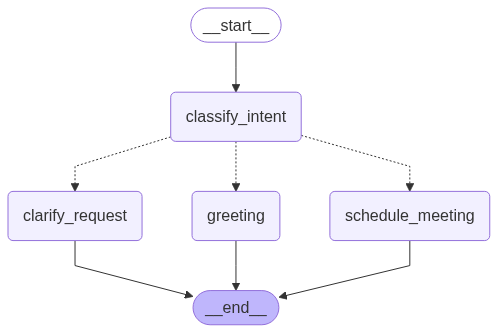
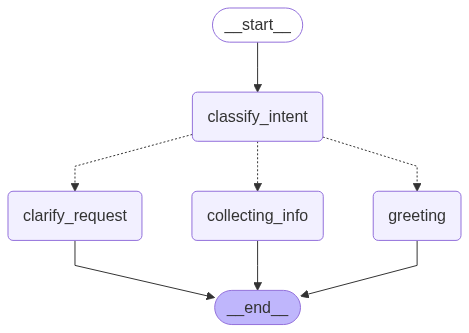
chore: rename schedule_meeting node to collecting_info node

diff --git a/tests/run_node_with_graph.py b/tests/run_node_with_graph.py
@@ -9,7 +9,7 @@ from meetingmuse.models.state import MeetingMuseBotState
 from meetingmuse.nodes.clarify_request_node import ClarifyRequestNode
 from meetingmuse.nodes.classify_intent_node import ClassifyIntentNode
 from meetingmuse.nodes.greeting_node import GreetingNode
-from meetingmuse.nodes.schedule_meeting_node import ScheduleMeetingNode
+from meetingmuse.nodes.schedule_meeting_node import CollectingInfoNode
 from meetingmuse.services.intent_classifier import IntentClassifier
 from meetingmuse.services.routing_service import ConversationRouter
 from meetingmuse.utils.logger import Logger
@@ -21,7 +21,7 @@ model = HuggingFaceModel("meta-llama/Meta-Llama-3-8B-Instruct")
 intent_classifier = IntentClassifier(model)
 classify_intent_node = ClassifyIntentNode(intent_classifier)
 greeting_node = GreetingNode(model)
-schedule_meeting_node = ScheduleMeetingNode(model, logger)
+schedule_meeting_node = CollectingInfoNode(model, logger)
 clarify_request_node = ClarifyRequestNode(model)
 conversation_router = ConversationRouter(logger)
 
@@ -88,7 +88,7 @@ def test_single_node(node_name: NodeName, user_message: str):
         graph = create_intent_test_graph()
     elif node_name == NodeName.GREETING:
         graph = create_greeting_test_graph()
-    elif node_name == NodeName.SCHEDULE_MEETING:
+    elif node_name == NodeName.COLLECTING_INFO:
         graph = create_schedule_meeting_test_graph()
     elif node_name == NodeName.CLARIFY_REQUEST:
         graph = create_clarify_request_test_graph()    
@@ -106,5 +106,5 @@ if __name__ == "__main__":
     draw_graph()
     # use this method, change NodeName value to test different node.
     # NOTE: make sure that the new node is added and helper method is     
-    test_single_node(NodeName.SCHEDULE_MEETING, "I want to schedule a meeting with John Doe on 2025-08-01 at 10:00 AM for 1 hour")
+    test_single_node(NodeName.COLLECTING_INFO, "I want to schedule a meeting with John Doe on 2025-08-01 at 10:00 AM for 1 hour")
 

diff --git a/tests/meetingmuse/nodes/test_classify_intent_node.py b/tests/meetingmuse/nodes/test_classify_intent_node.py
@@ -20,24 +20,6 @@ class TestClassifyIntentNode:
         """Create a ClassifyIntentNode instance with mocked classifier."""
         return ClassifyIntentNode(mock_intent_classifier)
 
-    @pytest.mark.parametrize("user_intent,expected_step", [
-        (UserIntent.SCHEDULE_MEETING, ConversationStep.COLLECTING_INFO),
-        (UserIntent.CHECK_AVAILABILITY, ConversationStep.PROCESSING_REQUEST),
-        (UserIntent.CANCEL_MEETING, ConversationStep.PROCESSING_REQUEST),
-        (UserIntent.RESCHEDULE_MEETING, ConversationStep.PROCESSING_REQUEST),
-        (UserIntent.UNKNOWN, ConversationStep.CLARIFYING_REQUEST),
-        (UserIntent.GENERAL_CHAT, ConversationStep.GREETING),
-    ])
-    def test_get_current_step_maps_intents_to_correct_conversation_steps(
-        self, node, user_intent, expected_step
-    ):
-        """
-        Test that user intents are correctly mapped to conversation steps.
-        
-        This is critical business logic that determines the conversation flow.
-        """
-        result = node.get_current_step(user_intent)
-        assert result == expected_step
 
     def test_call_updates_state_with_classified_intent_and_step(self, node, mock_intent_classifier):
         """
@@ -64,7 +46,6 @@ class TestClassifyIntentNode:
         # Assert
         mock_intent_classifier.classify.assert_called_once_with("I want to schedule a meeting")
         assert result.user_intent == UserIntent.SCHEDULE_MEETING
-        assert result.current_step == ConversationStep.COLLECTING_INFO
         
         # Ensure other state fields are preserved
         assert len(result.messages) == 2
@@ -96,4 +77,3 @@ class TestClassifyIntentNode:
         # Assert
         mock_intent_classifier.classify.assert_called_once_with("Actually, cancel my 3pm meeting")
         assert result.user_intent == UserIntent.CANCEL_MEETING
-        assert result.current_step == ConversationStep.PROCESSING_REQUEST

diff --git a/src/meetingmuse/graph.py b/src/meetingmuse/graph.py
@@ -11,7 +11,7 @@ from meetingmuse.models.state import MeetingMuseBotState
 from meetingmuse.nodes.clarify_request_node import ClarifyRequestNode
 from meetingmuse.nodes.classify_intent_node import ClassifyIntentNode
 from meetingmuse.nodes.greeting_node import GreetingNode
-from meetingmuse.nodes.schedule_meeting_node import ScheduleMeetingNode
+from meetingmuse.nodes.schedule_meeting_node import CollectingInfoNode
 from meetingmuse.services.routing_service import ConversationRouter
 
 
@@ -20,7 +20,7 @@ class GraphBuilder:
         state: MeetingMuseBotState,
         greeting_node: GreetingNode,
         clarify_request_node: ClarifyRequestNode,
-        schedule_meeting_node: ScheduleMeetingNode,
+        schedule_meeting_node: CollectingInfoNode,
         classify_intent_node: ClassifyIntentNode,
         conversation_router: ConversationRouter,
     ) -> None:
@@ -45,7 +45,7 @@ class GraphBuilder:
             self.conversation_router.route,
             {
                 NodeName.GREETING: NodeName.GREETING,
-                NodeName.SCHEDULE_MEETING: NodeName.SCHEDULE_MEETING,
+                NodeName.COLLECTING_INFO: NodeName.COLLECTING_INFO,
                 NodeName.CLARIFY_REQUEST: NodeName.CLARIFY_REQUEST,
             }
         )

diff --git a/src/meetingmuse/nodes/schedule_meeting_node.py b/src/meetingmuse/nodes/schedule_meeting_node.py
@@ -10,7 +10,7 @@ from meetingmuse.models.node import NodeName
 from meetingmuse.models.meeting import MeetingFindings
 from meetingmuse.utils.logger import Logger
 
-class ScheduleMeetingNode(BaseNode):
+class CollectingInfoNode(BaseNode):
 
     def __init__(self, model: HuggingFaceModel, logger: Logger):
         self.model = model
@@ -76,4 +76,4 @@ class ScheduleMeetingNode(BaseNode):
     
     @property
     def node_name(self) -> NodeName:
-        return NodeName.SCHEDULE_MEETING
+        return NodeName.COLLECTING_INFO

diff --git a/src/meetingmuse/services/routing_service.py b/src/meetingmuse/services/routing_service.py
@@ -12,7 +12,7 @@ class ConversationRouter:
         if intent == UserIntent.GENERAL_CHAT:
             next_step = NodeName.GREETING
         if intent == UserIntent.SCHEDULE_MEETING:
-            next_step = NodeName.SCHEDULE_MEETING
+            next_step = NodeName.COLLECTING_INFO
         if intent == UserIntent.UNKNOWN:
             next_step = NodeName.CLARIFY_REQUEST
         

diff --git a/src/meetingmuse/models/node.py b/src/meetingmuse/models/node.py
@@ -4,6 +4,7 @@ from enum import StrEnum
 class NodeName(StrEnum):
     CLARIFY_REQUEST = "clarify_request"
     GREETING = "greeting"
+    COLLECTING_INFO = "collecting_info"
     SCHEDULE_MEETING = "schedule_meeting"
     CLASSIFY_INTENT = "classify_intent"
     

diff --git a/README.md b/README.md
@@ -154,7 +154,7 @@ sample script can be found in `tests/run_node_with_graph.py`
     draw_graph()
     # use this method, change NodeName value to test different node.
     # NOTE: make sure that the new node is added and helper method is     
-    test_single_node(NodeName.SCHEDULE_MEETING, "I want to schedule a meeting with John Doe on 2025-08-01 at 10:00 AM for 1 hour")
+    test_single_node(NodeName.COLLECTING_INFO, "I want to schedule a meeting with John Doe on 2025-08-01 at 10:00 AM for 1 hour")
 ```
 
 use 
